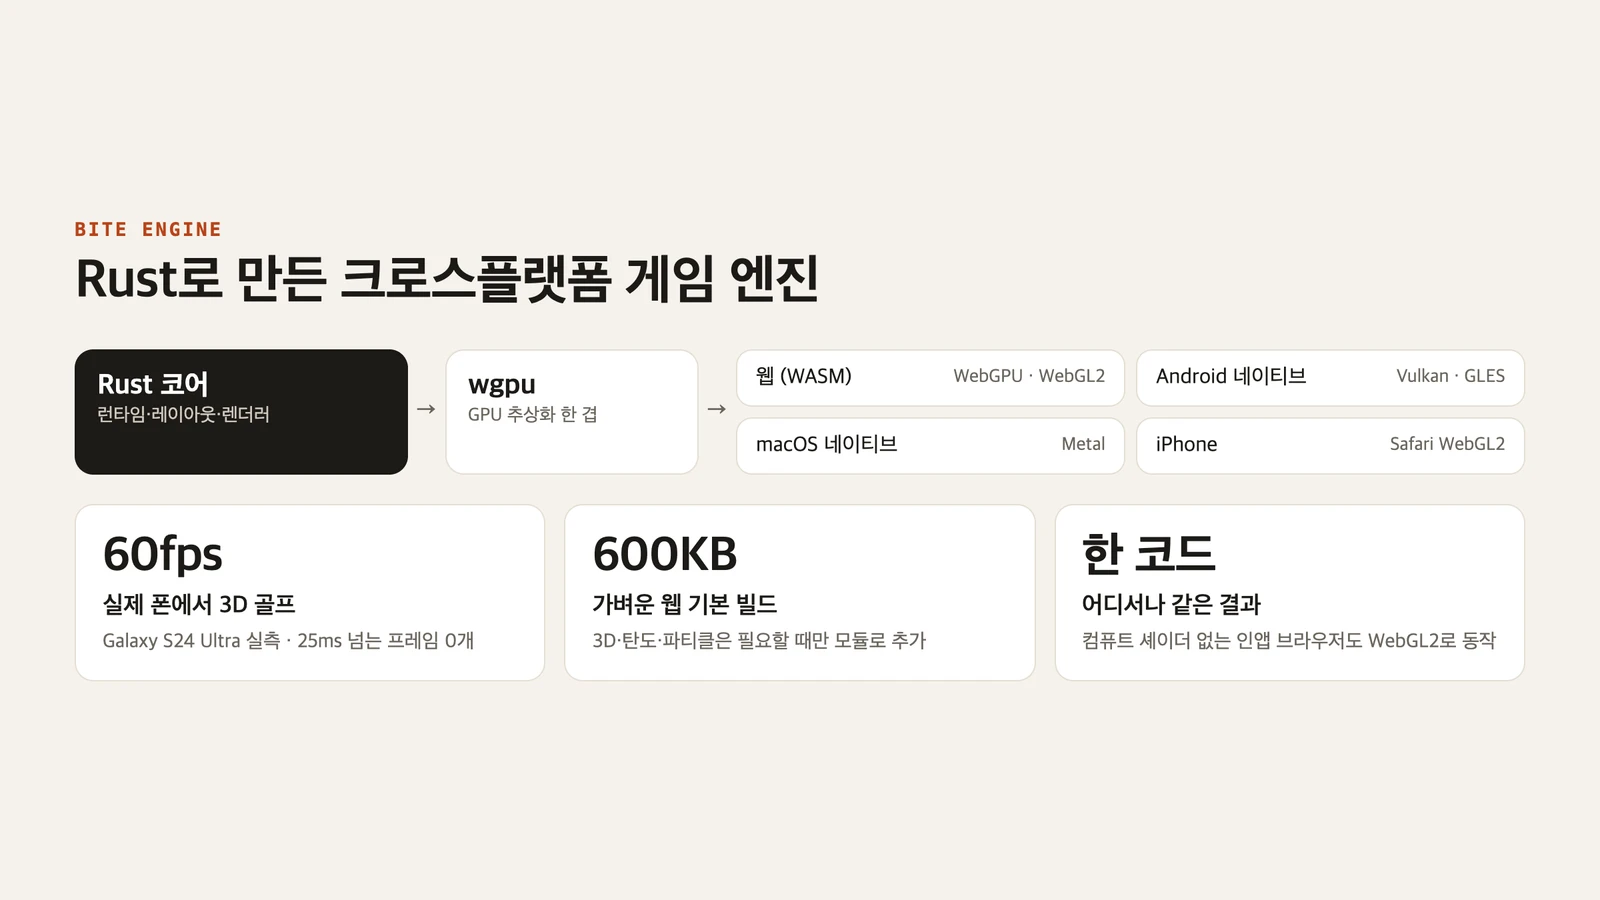
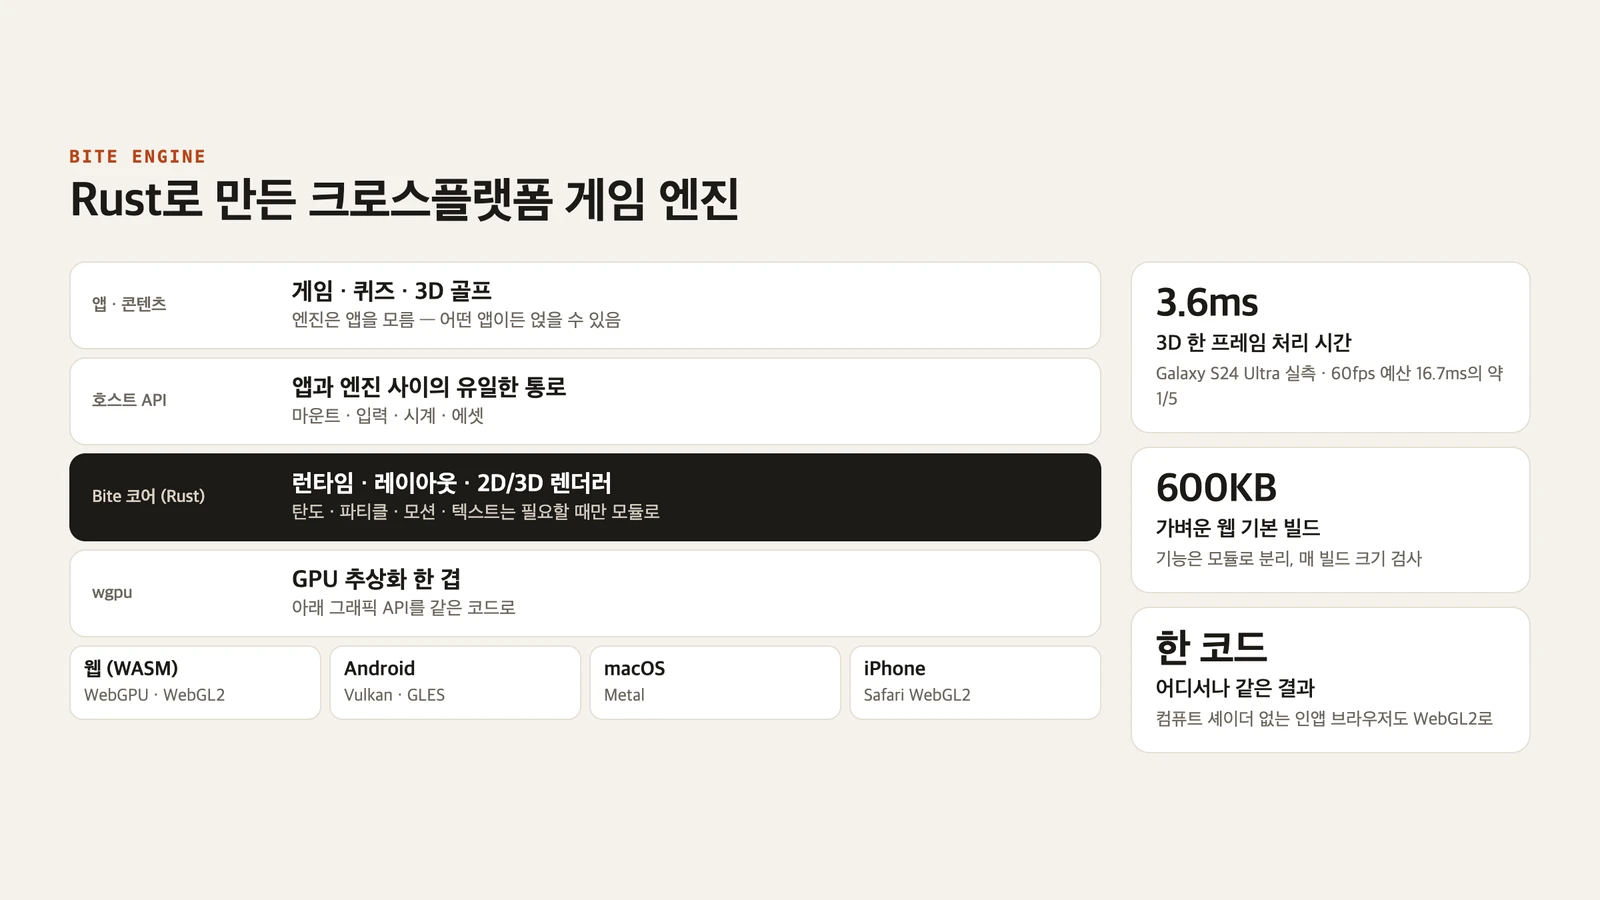
content: Bite 엔진 첫 장을 저수준 그래픽 API부터 앱까지 쌓인 스택 그림으로, 60fps 대신 폰에서 3D 한 프레임 처리 3.6ms(예산의 1/5)로 (한/영)

Changed region(s): [[0.0312, 0.1556, 0.9375, 0.8089]]

diff --git a/src/content/projects.ts b/src/content/projects.ts
@@ -200,7 +200,7 @@ const data: (Omit<Project, "images"> & { images?: ImageAsset[]; leadImages?: Ima
   {
     slug: "bite-engine",
     punchline: ["웹과 폰에서", "같은 결과를 그리는 엔진"],
-    summary: "특정 앱에 묶이지 않은 Rust 범용 게임 엔진 — wgpu로 웹(WebGPU·WebGL2)·Android(Vulkan)·macOS(Metal)에서 같은 결과, 실제 폰에서 3D 60fps (개인 프로젝트)",
+    summary: "특정 앱에 묶이지 않은 Rust 범용 게임 엔진 — wgpu로 웹(WebGPU·WebGL2)·Android(Vulkan)·macOS(Metal)에서 같은 결과, 폰에서 3D 한 프레임 3.6ms (개인 프로젝트)",
     name: "Bite 엔진 (Rust)",
     client: "개인 프로젝트",
     duty: "설계·개발",
@@ -216,13 +216,13 @@ const data: (Omit<Project, "images"> & { images?: ImageAsset[]; leadImages?: Ima
       "[직접] 3D·탄도·파티클·모션·텍스트·SVG를 기능별 모듈(crate)로 나누고, 필요한 기능만 넣어 웹 기본 빌드를 600KB 안에 유지",
       "[직접] 결정성 검증 — 같은 입력이면 버전이 바뀌어도 프레임·샷 결과 해시가 같도록, 기존 JS 엔진 화면과 나란히 비교하는 플레이그라운드와 기준 이미지 테스트",
       "[직접] 성능 개선 — 홀을 바꿀 때 GPU 파이프라인을 재사용해 홀당 셰이더 컴파일 20~50회 → 0회, 조준 중 그림자 재사용으로 드라이버 다시 그리기 100회 → 1회",
-      "[직접] 모바일 실측 — Galaxy S24 Ultra에서 3D 골프 장면 60fps(25ms 넘는 프레임 0개), 첫 화면 0.7초 안팎",
+      "[직접] 모바일 실측 — Galaxy S24 Ultra에서 3D 골프 장면 한 프레임 처리 3.6ms(60fps 예산 16.7ms의 약 1/5), 25ms 넘는 프레임 0개, 첫 화면 0.7초 안팎",
       "첫 적용 사례: [PlaySnack](https://playsnack.app) [골프 게임](https://playsnack.app/games/golf/)이 이 엔진으로 실제 서비스 중 (최신 v2.24)",
     ],
     roles: ["설계·개발"],
     skills: list("Rust, wgpu, WebGPU, WebGL2, Vulkan, Metal, WebAssembly"),
     images: [
-      { src: "/projects/bite-engine/overview-ko.webp", width: 1600, height: 900, caption: "Rust로 만든 크로스플랫폼 엔진 — wgpu 하나로 웹(WebGPU·WebGL2)·Android(Vulkan)·macOS(Metal)·iPhone(Safari)에서 같은 결과, 실제 폰에서 3D 골프 60fps, 웹 기본 빌드 600KB" },
+      { src: "/projects/bite-engine/overview-ko.webp", width: 1600, height: 900, caption: "엔진 구조 — 아래 그래픽 API(WebGPU·WebGL2·Vulkan·Metal)부터 wgpu, Rust 코어, 호스트 API, 맨 위 앱까지. 엔진은 앱을 모르는 독립 엔진, 폰에서 3D 한 프레임 3.6ms, 웹 기본 빌드 600KB" },
       { src: "/projects/bite-engine/perf-ko.webp", width: 1600, height: 900, caption: "성능·품질 지표 — 셰이더 컴파일 20~50회 → 0회, 조준 중 다시 그리기 100회 → 1회, 웹 빌드 600KB 상한, 버전 간 결과 해시 일치" },
       { src: "/projects/bite-engine/diorama.webp", width: 640, height: 480, caption: "3D 렌더링 — 지형 위 모델과 그림자, 물 표면 (WebGPU)" },
       { src: "/projects/bite-engine/glass.webp", width: 640, height: 480, caption: "재질 — 반투명 유리가 겹칠 때의 색 섞임과 그림자 (WebGPU)" },
@@ -244,7 +244,7 @@ const data: (Omit<Project, "images"> & { images?: ImageAsset[]; leadImages?: Ima
       ],
       outcome: {
         label: "결과",
-        text: "실제 폰에서 3D 장면이 60fps로 돌고, 첫 적용처인 PlaySnack 골프 게임이 이 엔진으로 서비스 중입니다. 홀 전환 셰이더 컴파일을 0회로, 조준 중 다시 그리기를 100회에서 1회로 줄였습니다. 엔진은 v2.24까지 나왔습니다. ([골프 게임](https://playsnack.app/games/golf/))",
+        text: "실제 폰에서 3D 한 프레임을 3.6ms에 처리해 60fps 예산의 1/5만 쓰고, 첫 적용처인 PlaySnack 골프 게임이 이 엔진으로 서비스 중입니다. 홀 전환 셰이더 컴파일을 0회로, 조준 중 다시 그리기를 100회에서 1회로 줄였습니다. 엔진은 v2.24까지 나왔습니다. ([골프 게임](https://playsnack.app/games/golf/))",
         note: "비공개 저장소입니다.",
       },
     },

diff --git a/src/content/en/projects.ts b/src/content/en/projects.ts
@@ -203,7 +203,7 @@ const data: (Omit<Project, "images"> & { images?: ImageAsset[]; leadImages?: Ima
   {
     slug: "bite-engine",
     punchline: ["One engine that draws", "the same on web and phones"],
-    summary: "A general-purpose Rust game engine, independent of any app — wgpu gives the same result on web (WebGPU, WebGL2), Android (Vulkan) and macOS (Metal), with 3D at 60 fps on a real phone (personal project)",
+    summary: "A general-purpose Rust game engine, independent of any app — wgpu gives the same result on web (WebGPU, WebGL2), Android (Vulkan) and macOS (Metal), with a 3D frame in 3.6 ms on a phone (personal project)",
     name: "Bite engine (Rust)",
     client: "Personal project",
     duty: "Design & development",
@@ -219,13 +219,13 @@ const data: (Omit<Project, "images"> & { images?: ImageAsset[]; leadImages?: Ima
       "[Hands-on] 3D, ballistics, particles, motion, text and SVG as separate crates, so the default web build stays under 600 KB",
       "[Hands-on] Determinism checks — the same input gives the same frame and shot hashes across versions, with a playground and baseline images against the previous JS engine",
       "[Hands-on] Performance — reusing GPU pipelines across holes cut shader compiles from 20–50 per hole to 0; reusing shadows while aiming cut driver re-renders from 100 to 1",
-      "[Hands-on] Measured on phones — a 3D golf scene at 60 fps on a Galaxy S24 Ultra (0 frames over 25 ms), first screen in about 0.7 s",
+      "[Hands-on] Measured on phones — a 3D golf scene takes 3.6 ms per frame on a Galaxy S24 Ultra (about 1/5 of the 16.7 ms budget at 60 fps), 0 frames over 25 ms, first screen in about 0.7 s",
       "First user: [PlaySnack](https://playsnack.app)'s [golf game](https://playsnack.app/games/golf/) runs on it in production (latest v2.24)",
     ],
     roles: ["Design & development"],
     skills: list("Rust, wgpu, WebGPU, WebGL2, Vulkan, Metal, WebAssembly"),
     images: [
-      { src: "/projects/bite-engine/overview-en.webp", width: 1600, height: 900, caption: "A cross-platform engine in Rust — one wgpu layer for web (WebGPU, WebGL2), Android (Vulkan), macOS (Metal) and iPhone (Safari) with the same result, 3D golf at 60 fps on a real phone, a 600 KB default web build" },
+      { src: "/projects/bite-engine/overview-en.webp", width: 1600, height: 900, caption: "Engine stack — from graphics APIs (WebGPU, WebGL2, Vulkan, Metal) through wgpu, the Rust core and the host API up to apps. The engine knows no app; a 3D frame takes 3.6 ms on a phone; the default web build is 600 KB" },
       { src: "/projects/bite-engine/perf-en.webp", width: 1600, height: 900, caption: "Performance and quality — shader compiles 20–50 → 0, re-renders while aiming 100 → 1, a 600 KB web build cap, matching result hashes across versions" },
       { src: "/projects/bite-engine/diorama.webp", width: 640, height: 480, caption: "3D rendering — models on terrain with shadows and a water surface (WebGPU)" },
       { src: "/projects/bite-engine/glass.webp", width: 640, height: 480, caption: "Materials — overlapping translucent glass blending and shadows (WebGPU)" },
@@ -247,7 +247,7 @@ const data: (Omit<Project, "images"> & { images?: ImageAsset[]; leadImages?: Ima
       ],
       outcome: {
         label: "Outcome",
-        text: "3D scenes run at 60 fps on a real phone, and the first user, PlaySnack's golf game, runs on the engine in production. Shader compiles on hole changes went to 0 and re-renders while aiming from 100 to 1. The engine is at v2.24. ([golf game](https://playsnack.app/games/golf/))",
+        text: "A 3D frame takes 3.6 ms on a real phone, about 1/5 of the 60 fps budget, and the first user, PlaySnack's golf game, runs on the engine in production. Shader compiles on hole changes went to 0 and re-renders while aiming from 100 to 1. The engine is at v2.24. ([golf game](https://playsnack.app/games/golf/))",
         note: "Private repository.",
       },
     },
